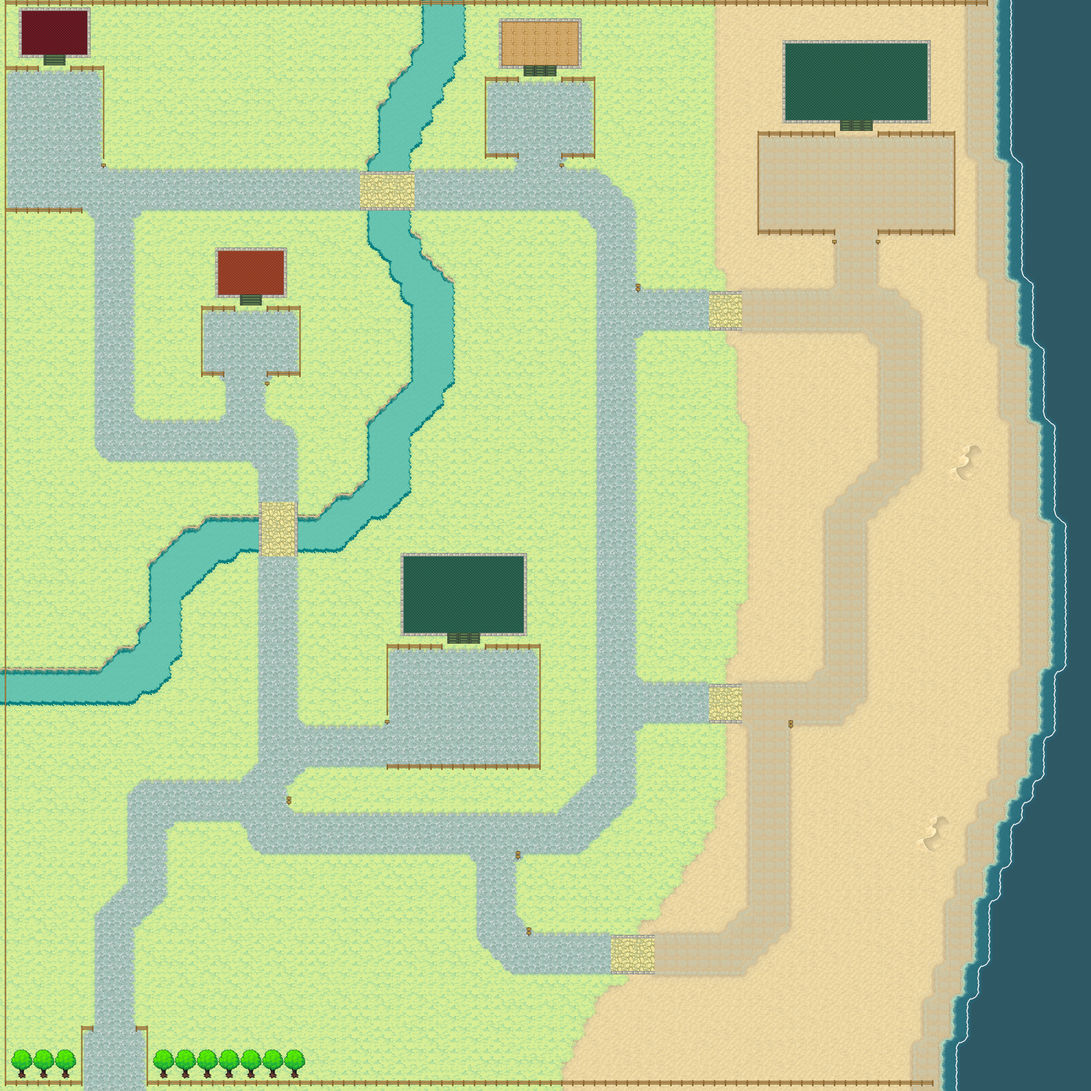
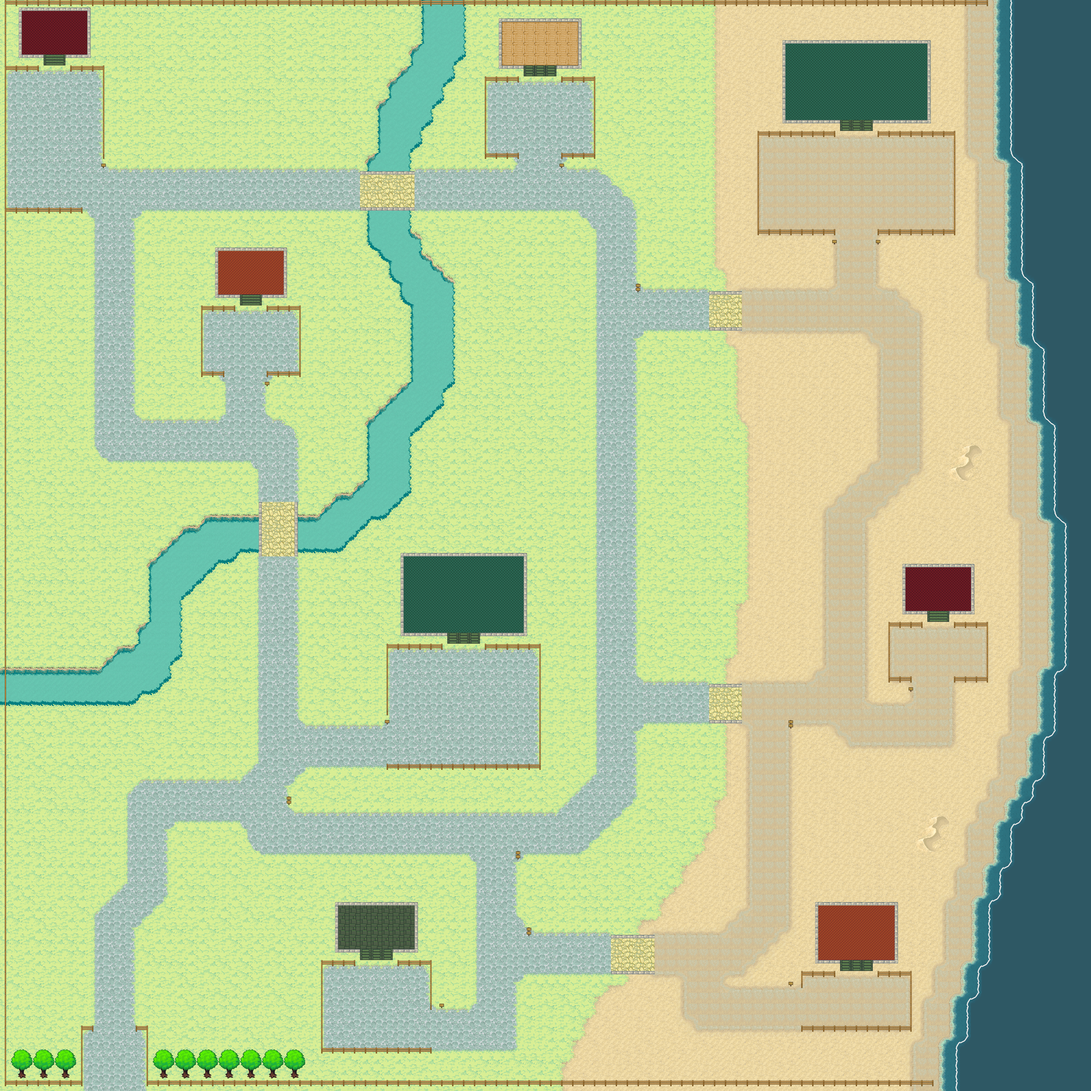
code updated -> map tekenen werd goed. maar kijk naar graph

Changed region(s): [[0.2812, 0.8125, 0.5, 0.9688], [0.625, 0.8125, 0.8438, 0.9688], [0.75, 0.5, 0.9062, 0.6875]]

diff --git a/code/simulator/__Main.java b/code/simulator/__Main.java
@@ -8,7 +8,7 @@ import agenda.Artist;
 import agenda.Performance;
 import agenda.Stage;
 
-// just for testing
+// just for Otesting
 public class __Main {
 	public static void main(String[] args) throws Exception {
 		agenda.Agenda agenda = new agenda.Agenda();
@@ -18,6 +18,9 @@ public class __Main {
 		agenda.getStages().add(new Stage("Trixie STAGE", agenda));
 		agenda.getStages().add(new Stage("lol STAGE", agenda));
 		agenda.getStages().add(new Stage("Kevin STAGE", agenda));
+		agenda.getStages().add(new Stage("bixie STAGE", agenda));
+		agenda.getStages().add(new Stage("mixie STAGE", agenda));
+		agenda.getStages().add(new Stage("dixie STAGE", agenda));
 		
 		agenda.getPerformances().add(new Performance(agenda.getStages().get(0), agenda.getArtist().get(0),
 				new agenda.Time(16, 00), new agenda.Time(19, 00), 123, agenda));
@@ -29,6 +32,9 @@ public class __Main {
 		map.put(agenda.getStages().get(2), 11);
 		map.put(agenda.getStages().get(3), 14);
 		map.put(agenda.getStages().get(4), 17);
+		map.put(agenda.getStages().get(5), 20);
+		map.put(agenda.getStages().get(6), 23);
+		map.put(agenda.getStages().get(7), 26);
 		
 		
 		World w = new World(agenda, map, "Endmap.json", "Tiled2.png");
@@ -43,7 +49,7 @@ public class __Main {
 
 			@Override
 			public void update() {
-				System.out.println("Agent " + World.instance.getWorldTime());
+				System.out.println("Agent updated");
 				
 			}
 

diff --git a/code/simulator/Stage.java b/code/simulator/Stage.java
@@ -48,7 +48,6 @@ class Stage extends Building implements Updateable{
 		agenda.Time currentTime = new agenda.Time(World.instance.getWorldTime()/60);
 		agenda.Time preciusTime = new agenda.Time((World.instance.getWorldTime() - World.instance.getDeltaTime())/60);
 		
-		System.out.println("Current : " + currentTime + "precious " + preciusTime);
 		for (int i = 0; i < performances.size(); i++)
 		{
 			agenda.Time start = performances.get(i).getStartTime(), end = performances.get(i).getEndTime();

diff --git a/code/simulator/World.java b/code/simulator/World.java
@@ -111,6 +111,7 @@ public class World {
 					TileLayer e = new TileLayer((JSONArray) currentlayer.get("data"), map, height, width, true);
 					layerslist.add(e);
 				}
+			
 				for (Map.Entry<agenda.Stage, Integer> entry : stageMap.entrySet()) {
 					
 					agenda.Stage stage = entry.getKey();
